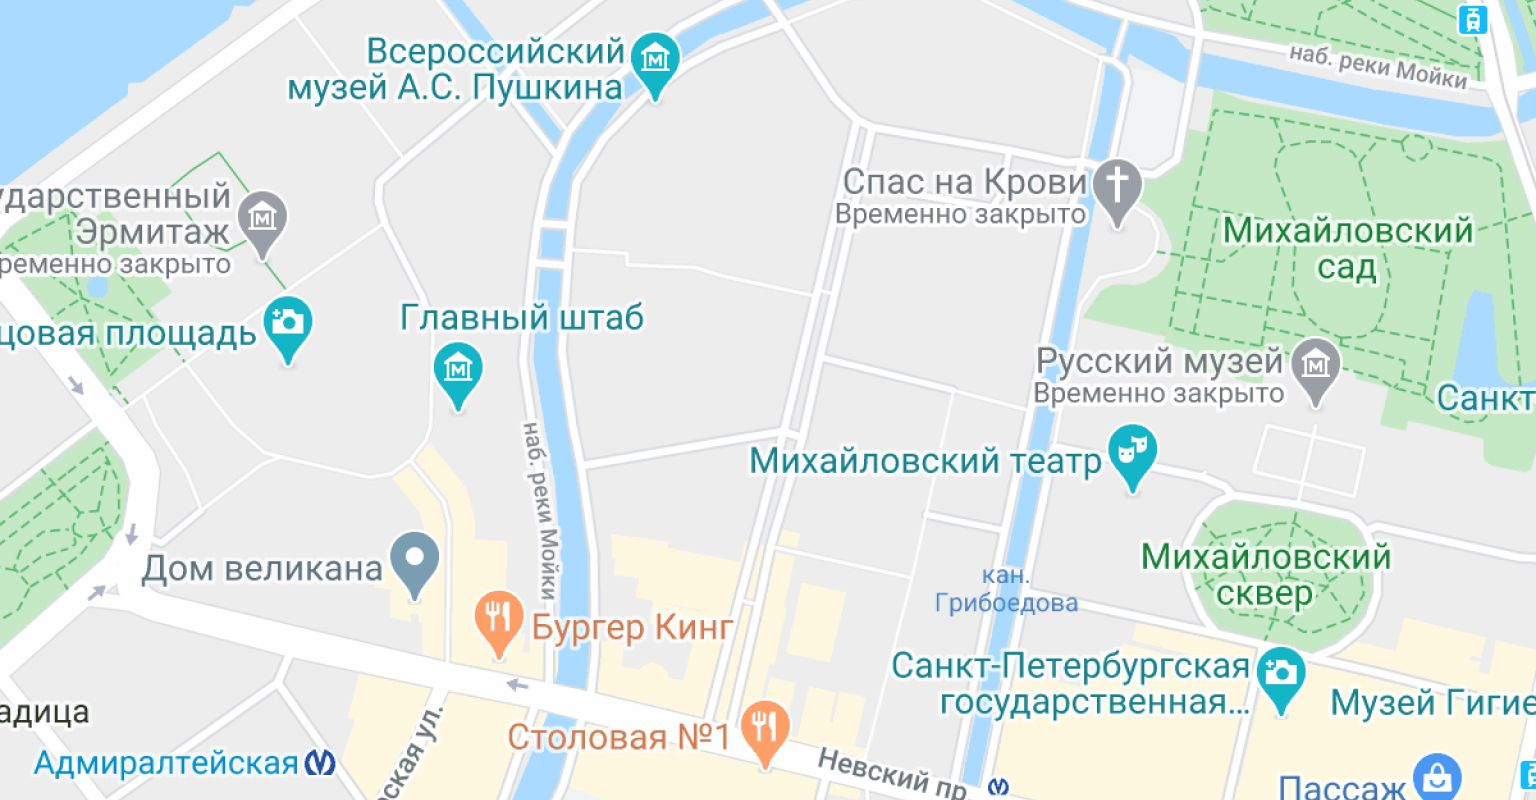
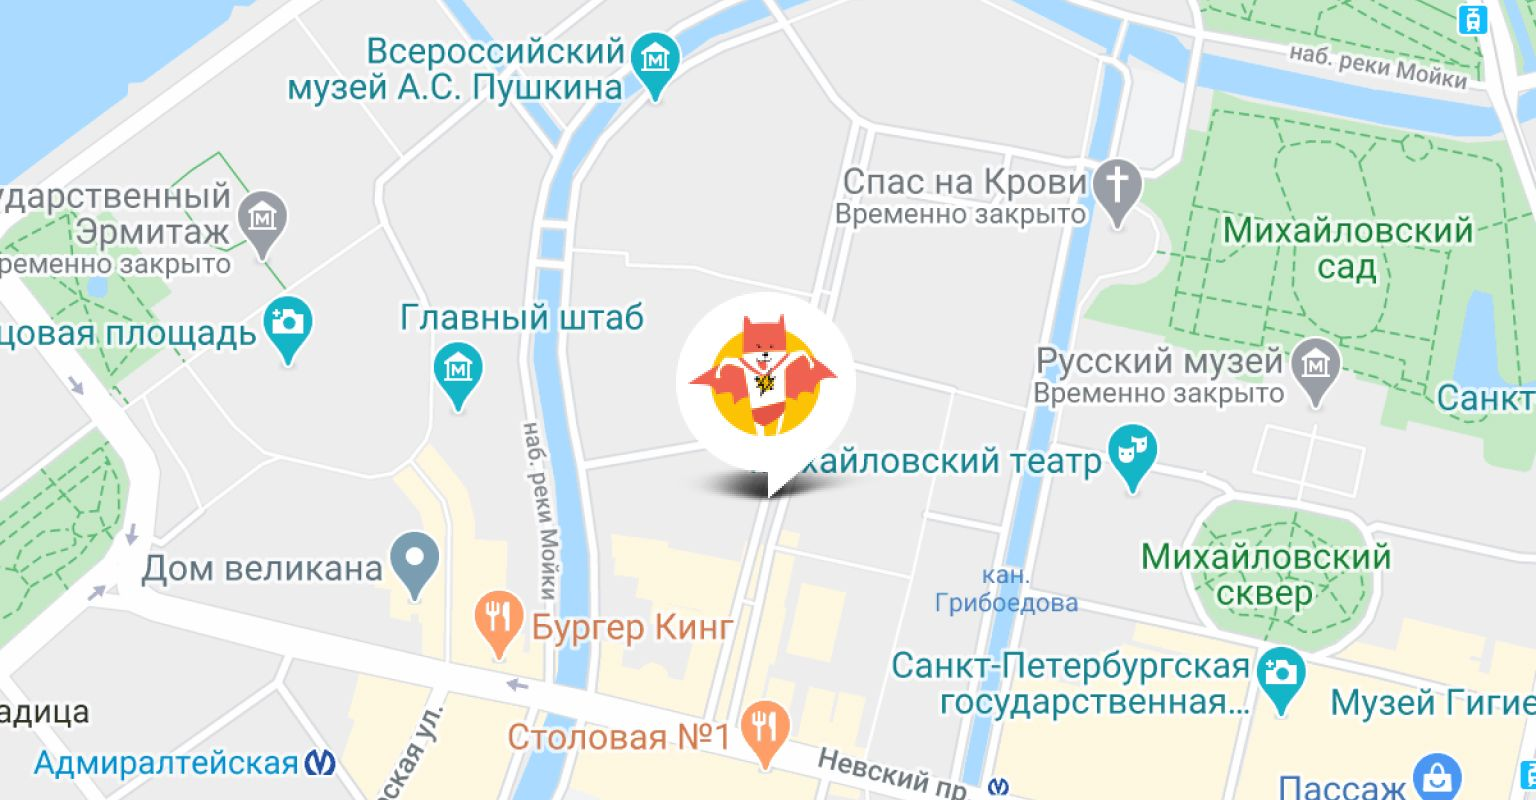
fix

Changed region(s): [[0.4375, 0.375, 0.5625, 0.625]]

diff --git a/source/catalog.html b/source/catalog.html
@@ -352,11 +352,16 @@
           </address>
         </div>
       </div>
-      <picture>
-        <source width="1440" height="400" type="image/jpeg" media="(min-width: 1440px)" srcset="images/map@1x.jpg 1x, images/map@2x.jpg 2x">
-        <source width="768" height="400" type="image/jpeg" media="(min-width: 768px)" srcset="images/map-tablet@1x.jpg 1x, images/map-tablet@2x.jpg 2x">
-        <img class="contacts__map" src="images/map-mobile@1x.jpg" srcset="images/map-mobile@2x.jpg 2x" width="320" height="362" alt="Изображение расположения нашего офиса на карте.">
-      </picture>
+      <div class="contacts__location">
+        <iframe class="contacts__iframe" src="https://www.google.com/maps/embed?pb=!1m18!1m12!1m3!1d7994.295953931398!2d30.31873440598977!3d59.939210911705025!2m3!1f0!2f0!3f0!3m2!1i1024!2i768!4f13.1!3m3!1m2!1s0x4696310fca145cc1%3A0x42b32648d8238007!2sBolshaya%20Konyushennaya%20St%2C%2019%2F8%2C%20Sankt-Peterburg%2C%20191186!5e0!3m2!1sen!2sru!4v1730887844721!5m2!1sen!2sru" allowfullscreen title="Офис компании по адресу ул. Большая Конюшенная, д. 19/8, Санкт-Петербург" loading="lazy" referrerpolicy="no-referrer-when-downgrade"></iframe>
+        <noscript>
+          <picture>
+            <source width="1440" height="400" type="image/jpeg" media="(min-width: 1440px)" srcset="images/map@1x.jpg 1x, images/map@2x.jpg 2x">
+            <source width="768" height="400" type="image/jpeg" media="(min-width: 768px)" srcset="images/map-tablet@1x.jpg 1x, images/map-tablet@2x.jpg 2x">
+            <img class="contacts__map" src="images/map-mobile@1x.jpg" srcset="images/map-mobile@2x.jpg 2x" width="320" height="362" alt="Изображение расположения нашего офиса на карте.">
+          </picture>
+        </noscript>
+      </div>
     </section>
   </main>
   <footer class="footer">

diff --git a/source/index.html b/source/index.html
@@ -141,11 +141,16 @@
           </address>
         </div>
       </div>
-      <picture>
-        <source width="1440" height="400" type="image/jpeg" media="(min-width: 1440px)" srcset="images/map@1x.jpg 1x, images/map@2x.jpg 2x">
-        <source width="768" height="400" type="image/jpeg" media="(min-width: 768px)" srcset="images/map-tablet@1x.jpg 1x, images/map-tablet@2x.jpg 2x">
-        <img class="contacts__map" src="images/map-mobile@1x.jpg" srcset="images/map-mobile@2x.jpg 2x" width="320" height="362" alt="Изображение расположения нашего офиса на карте.">
-      </picture>
+      <div class="contacts__location">
+        <iframe class="contacts__iframe" src="https://www.google.com/maps/embed?pb=!1m18!1m12!1m3!1d7994.295953931398!2d30.31873440598977!3d59.939210911705025!2m3!1f0!2f0!3f0!3m2!1i1024!2i768!4f13.1!3m3!1m2!1s0x4696310fca145cc1%3A0x42b32648d8238007!2sBolshaya%20Konyushennaya%20St%2C%2019%2F8%2C%20Sankt-Peterburg%2C%20191186!5e0!3m2!1sen!2sru!4v1730887844721!5m2!1sen!2sru" allowfullscreen title="Офис компании по адресу ул. Большая Конюшенная, д. 19/8, Санкт-Петербург" loading="lazy" referrerpolicy="no-referrer-when-downgrade"></iframe>
+        <noscript>
+          <picture>
+            <source width="1440" height="400" type="image/jpeg" media="(min-width: 1440px)" srcset="images/map@1x.jpg 1x, images/map@2x.jpg 2x">
+            <source width="768" height="400" type="image/jpeg" media="(min-width: 768px)" srcset="images/map-tablet@1x.jpg 1x, images/map-tablet@2x.jpg 2x">
+            <img class="contacts__map" src="images/map-mobile@1x.jpg" srcset="images/map-mobile@2x.jpg 2x" width="320" height="362" alt="Изображение расположения нашего офиса на карте.">
+          </picture>
+        </noscript>
+      </div>
     </section>
   </main>
   <footer class="footer">

diff --git a/source/styles/blocks/hero.scss b/source/styles/blocks/hero.scss
@@ -2,6 +2,36 @@
   position: relative;
 }
 
+.hero::before {
+  content: "";
+  display: block;
+  position: absolute;
+  z-index: -1;
+  left: 0;
+  right: 0;
+  height: 302px;
+  background: linear-gradient(rgba(104, 183, 56, 0.85), rgba(104, 183, 56, 0.85)), url("../../images/index-background-mobile@1x.png");
+  background-repeat: no-repeat;
+  background-size: cover, cover;
+  background-position: center center;
+
+  @media (min-width: $tablet-width) {
+    display: none;
+  }
+
+  @media (min-width: $desktop-width) {
+    display: block;
+    left: 50%;
+    right: 0;
+    width: 50%;
+    height: 694px;
+    background: linear-gradient(rgba(104, 183, 56, 0.85), rgba(104, 183, 56, 0.85)), url("../../images/index-background-desktop@1x.png");
+    background-repeat: no-repeat;
+    background-size: cover, cover;
+    background-position: center center;
+  }
+}
+
 .hero__wrapper {
   position: relative;
   display: flex;
@@ -26,37 +56,6 @@
   @media (min-width: $desktop-width) {
     width: $desktop-width;
     padding: 0 110px;
-  }
-}
-
-.hero::before {
-  content: "";
-  display: block;
-  position: absolute;
-  z-index: -1;
-  left: 0;
-  right: 0;
-  height: 302px;
-  background: linear-gradient(rgba(104, 183, 56, 0.85), rgba(104, 183, 56, 0.85)), url("../../images/index-background-mobile@1x.png");
-  background-repeat: no-repeat;
-  background-size: cover, cover;
-  background-position: center center;
-
-  @media (min-width: $tablet-width) {
-    width: 0;
-    height: 0;
-    background: none;
-  }
-
-  @media (min-width: $desktop-width) {
-    left: 50%;
-    right: 0;
-    width: 50%;
-    height: 694px;
-    background: linear-gradient(rgba(104, 183, 56, 0.85), rgba(104, 183, 56, 0.85)), url("../../images/index-background-desktop@1x.png");
-    background-repeat: no-repeat;
-    background-size: cover, cover;
-    background-position: center center;
   }
 }
 

diff --git a/source/styles/blocks/contacts.scss b/source/styles/blocks/contacts.scss
@@ -11,10 +11,13 @@
     position: absolute;
     top: 95px;
     left: 110px;
-    z-index: 1;
+    z-index: 3;
     background-color: $bg-basic-white;
     width: 565px;
-    min-height: 199px;
+    height: 199px;
+    overflow: hidden;
+    padding: 0;
+    margin: 0;
   }
 }
 
@@ -61,11 +64,37 @@
   font-style: normal;
 }
 
-.contacts__map {
-  display: block;
-  width: 100%;
+.contacts__location {
+  position: relative;
+  height: 362px;
 
   @media (min-width: $tablet-width) {
     min-height: 400px;
+  }
+}
+
+.contacts__iframe {
+  position: absolute;
+  z-index: 2;
+  display: block;
+  border: none;
+  width: 100%;
+  height: 362px;
+
+  @media (min-width: $tablet-width) {
+    height: 400px;
+  }
+}
+
+.contacts__map {
+  position: absolute;
+  z-index: 1;
+  display: block;
+  width: 100%;
+  height: 362px;
+  object-fit: cover;
+
+  @media (min-width: $tablet-width) {
+    height: 400px;
   }
 }
